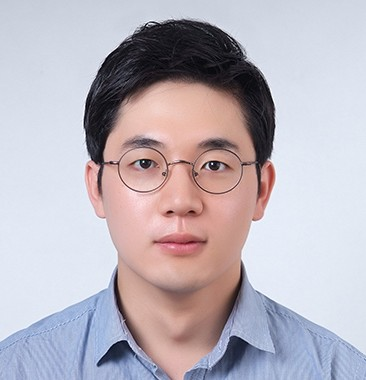
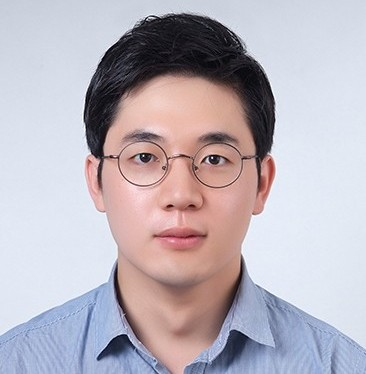
Update Authors' pictures

diff --git a/index.html b/index.html
@@ -171,7 +171,7 @@ document.addEventListener('DOMContentLoaded', () => {
     <div class="row">
         <div class="col-12" style='flex:1 1 30%;max-width:26%;margin-left: 24%; padding: 5%;'>
             <a class="project_author" href="https://sites.google.com/view/tedlasai" target="_blank">
-                <img class="author_icon" src="assets/authors/Sai.jpg">
+                <img class="author_icon" src="assets/authors/Sai3.jpg">
                 <p class="author-name">SaiKiran Tedla</p>
             </a>
         </div>
